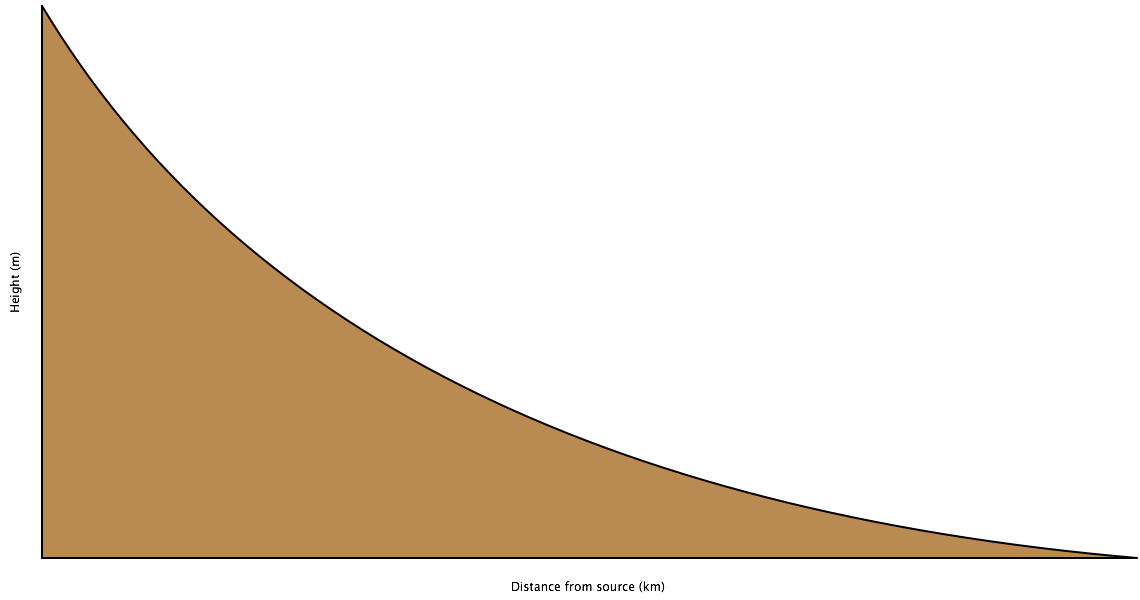
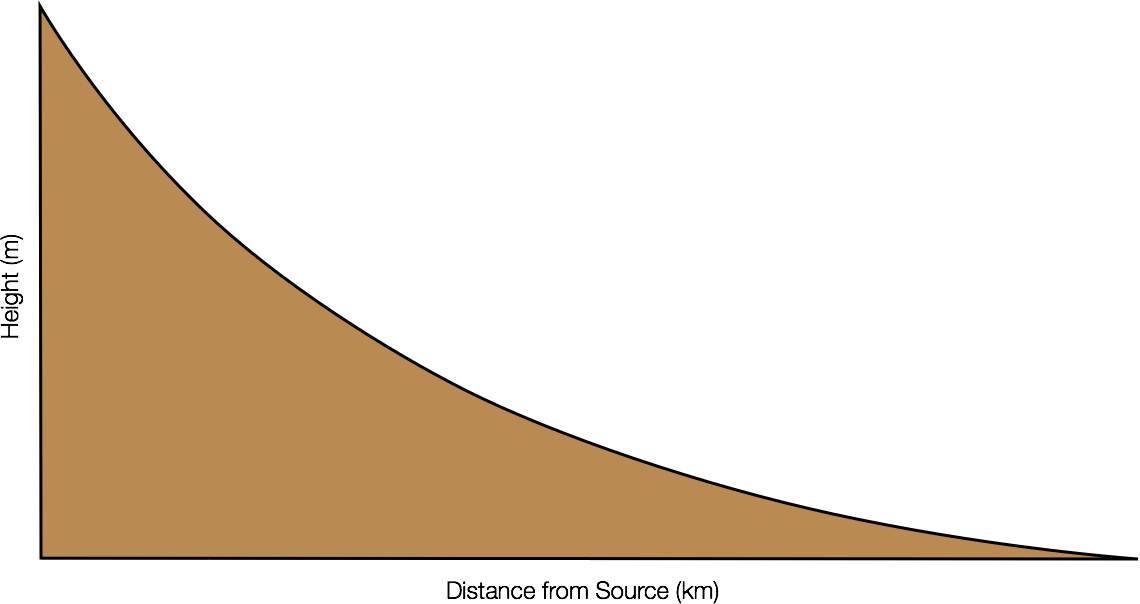
Converted graded profile diagram to SVG

diff --git a/_posts/riversAndFlooding/2012-01-04-long-and-cross-profiles.md b/_posts/riversAndFlooding/2012-01-04-long-and-cross-profiles.md
@@ -100,7 +100,7 @@ The velocity at different points in a channel’s cross section can be illustrat
 [erosion-features-page-meanders]: /rivers/river-landforms/#meanders
 
 [river-long-profile]: /Images/rivers/long-profile-diagram.png
-[river-graded-profile]: /Images/rivers/graded-profile-diagram.png
+[river-graded-profile]: /Images/rivers/graded-profile-diagram.svg
 [upper-course-x-section]: /Images/rivers/upper-course-cross-section.svg
 [middle-course-x-section]: /Images/rivers/middle-course-cross-section.svg
 [lower-course-x-section]: /Images/rivers/lower-course-cross-section.svg
